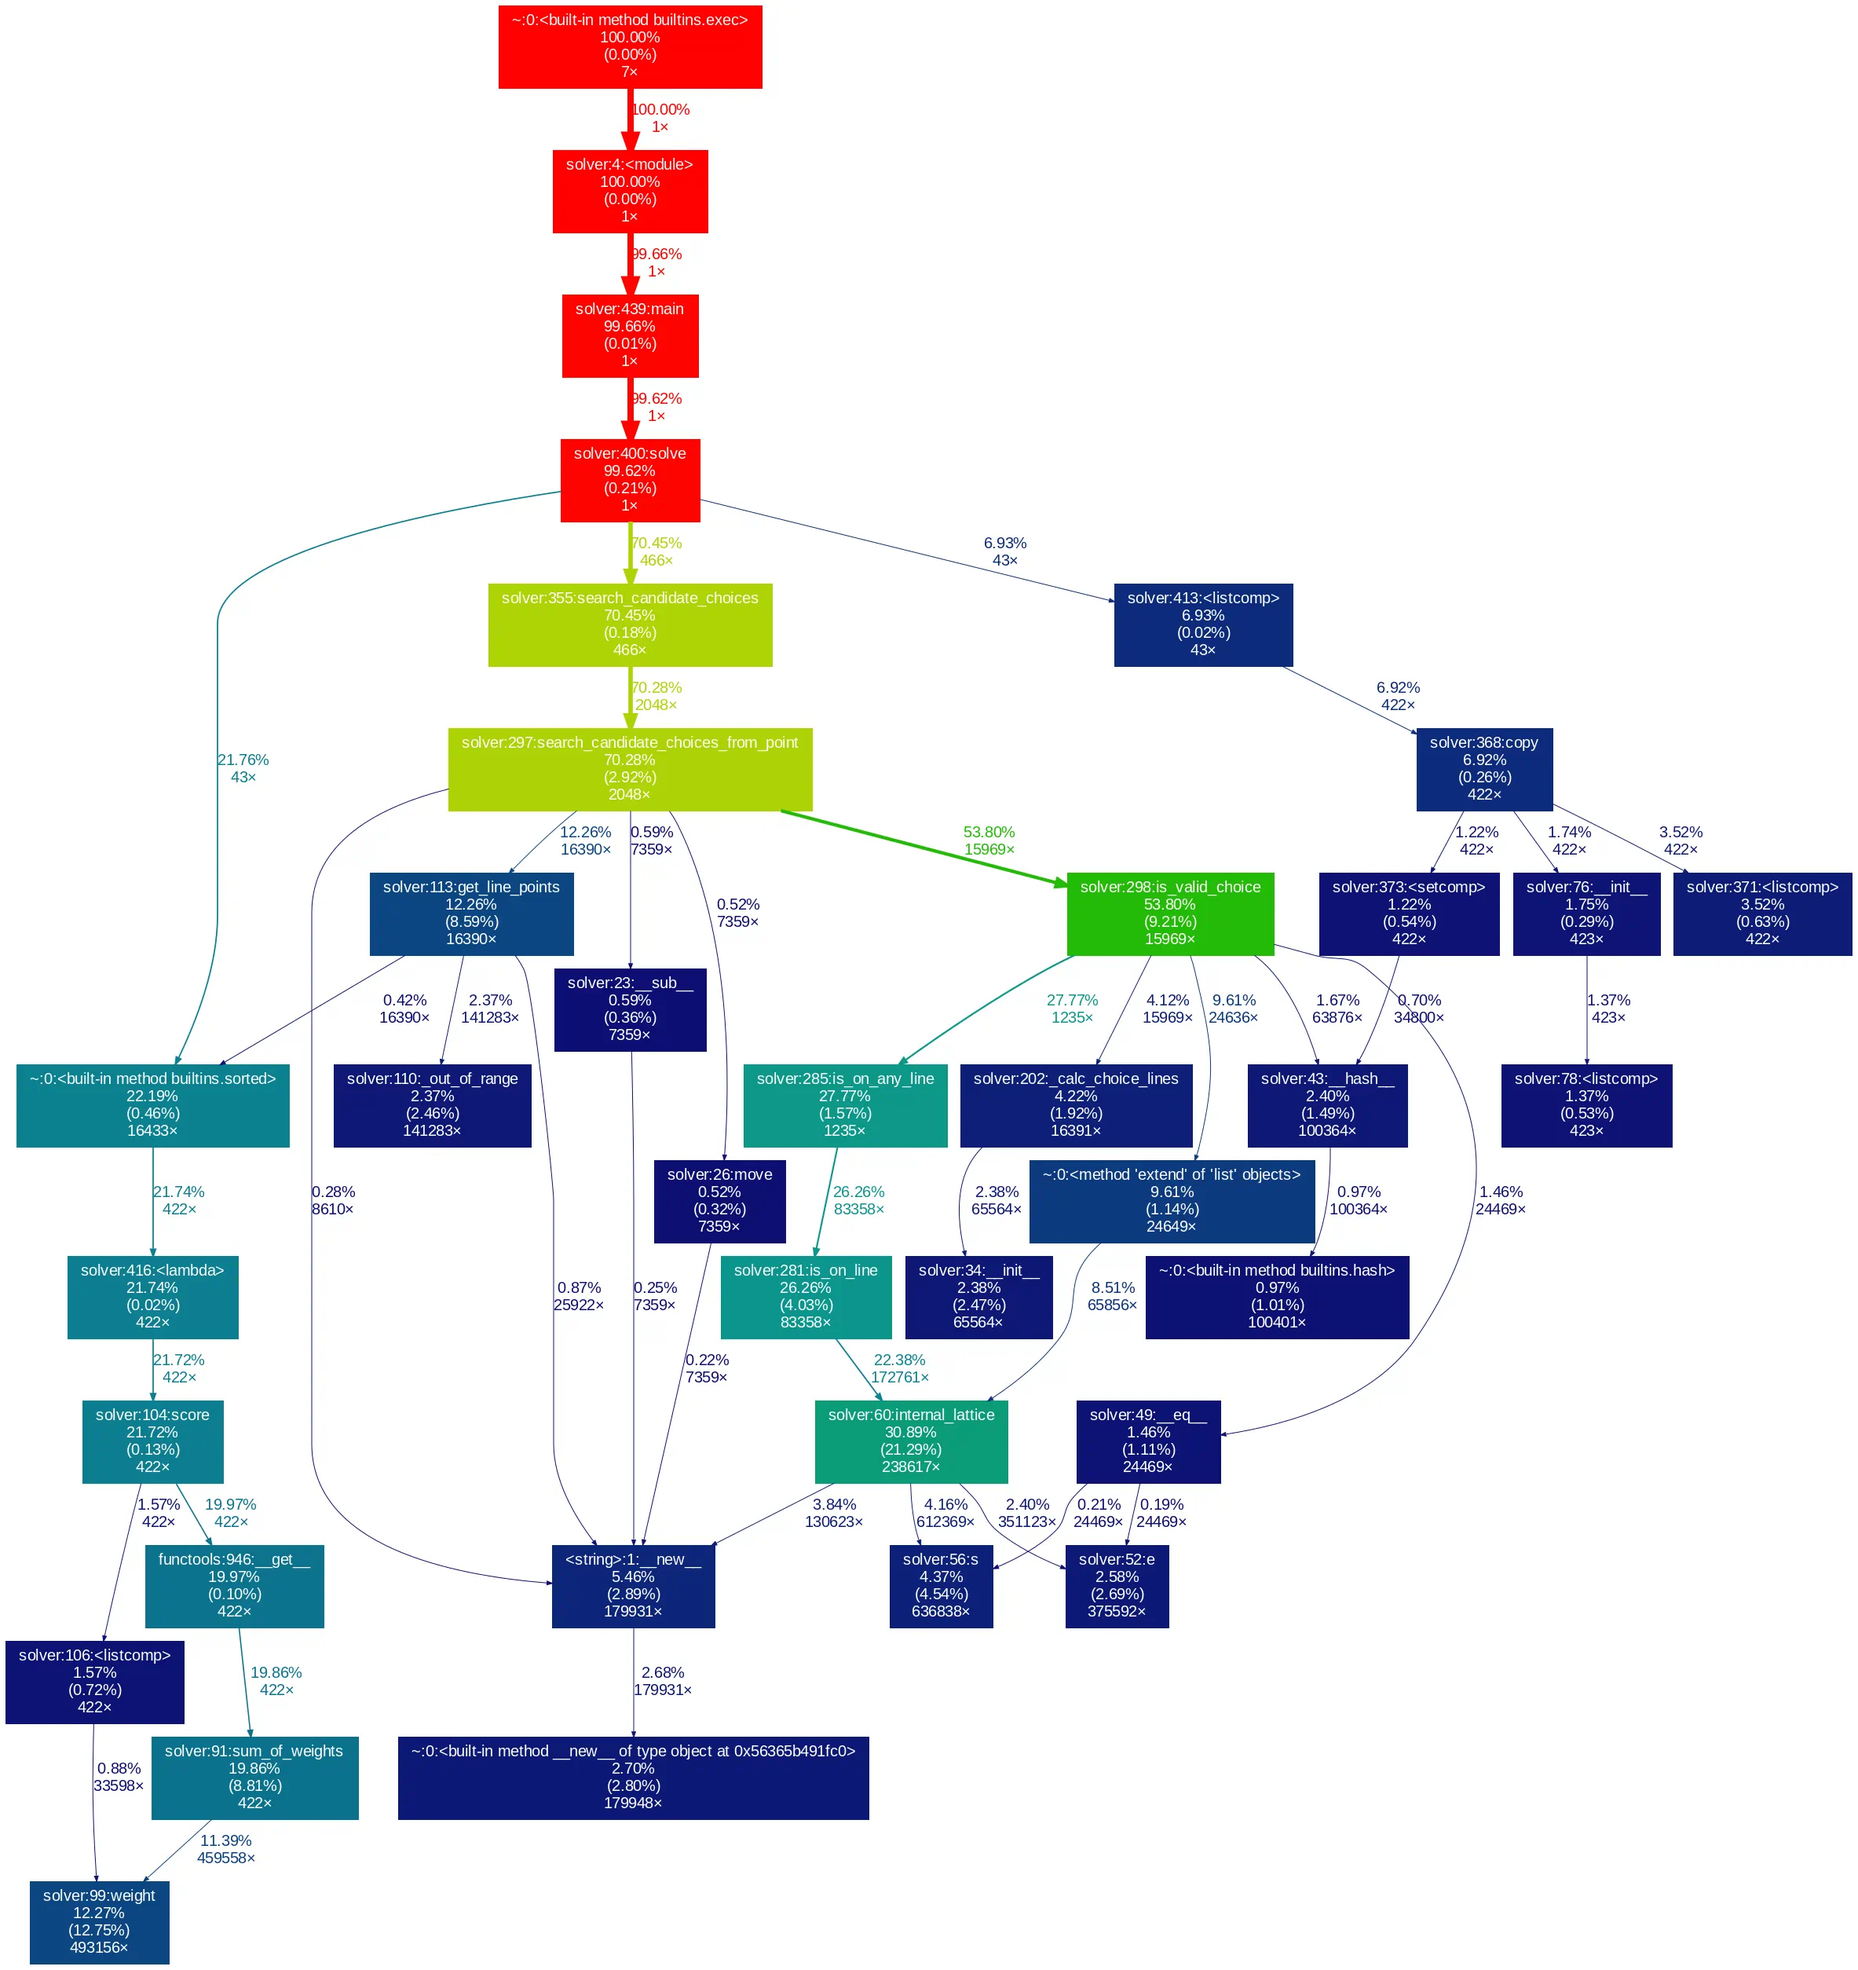
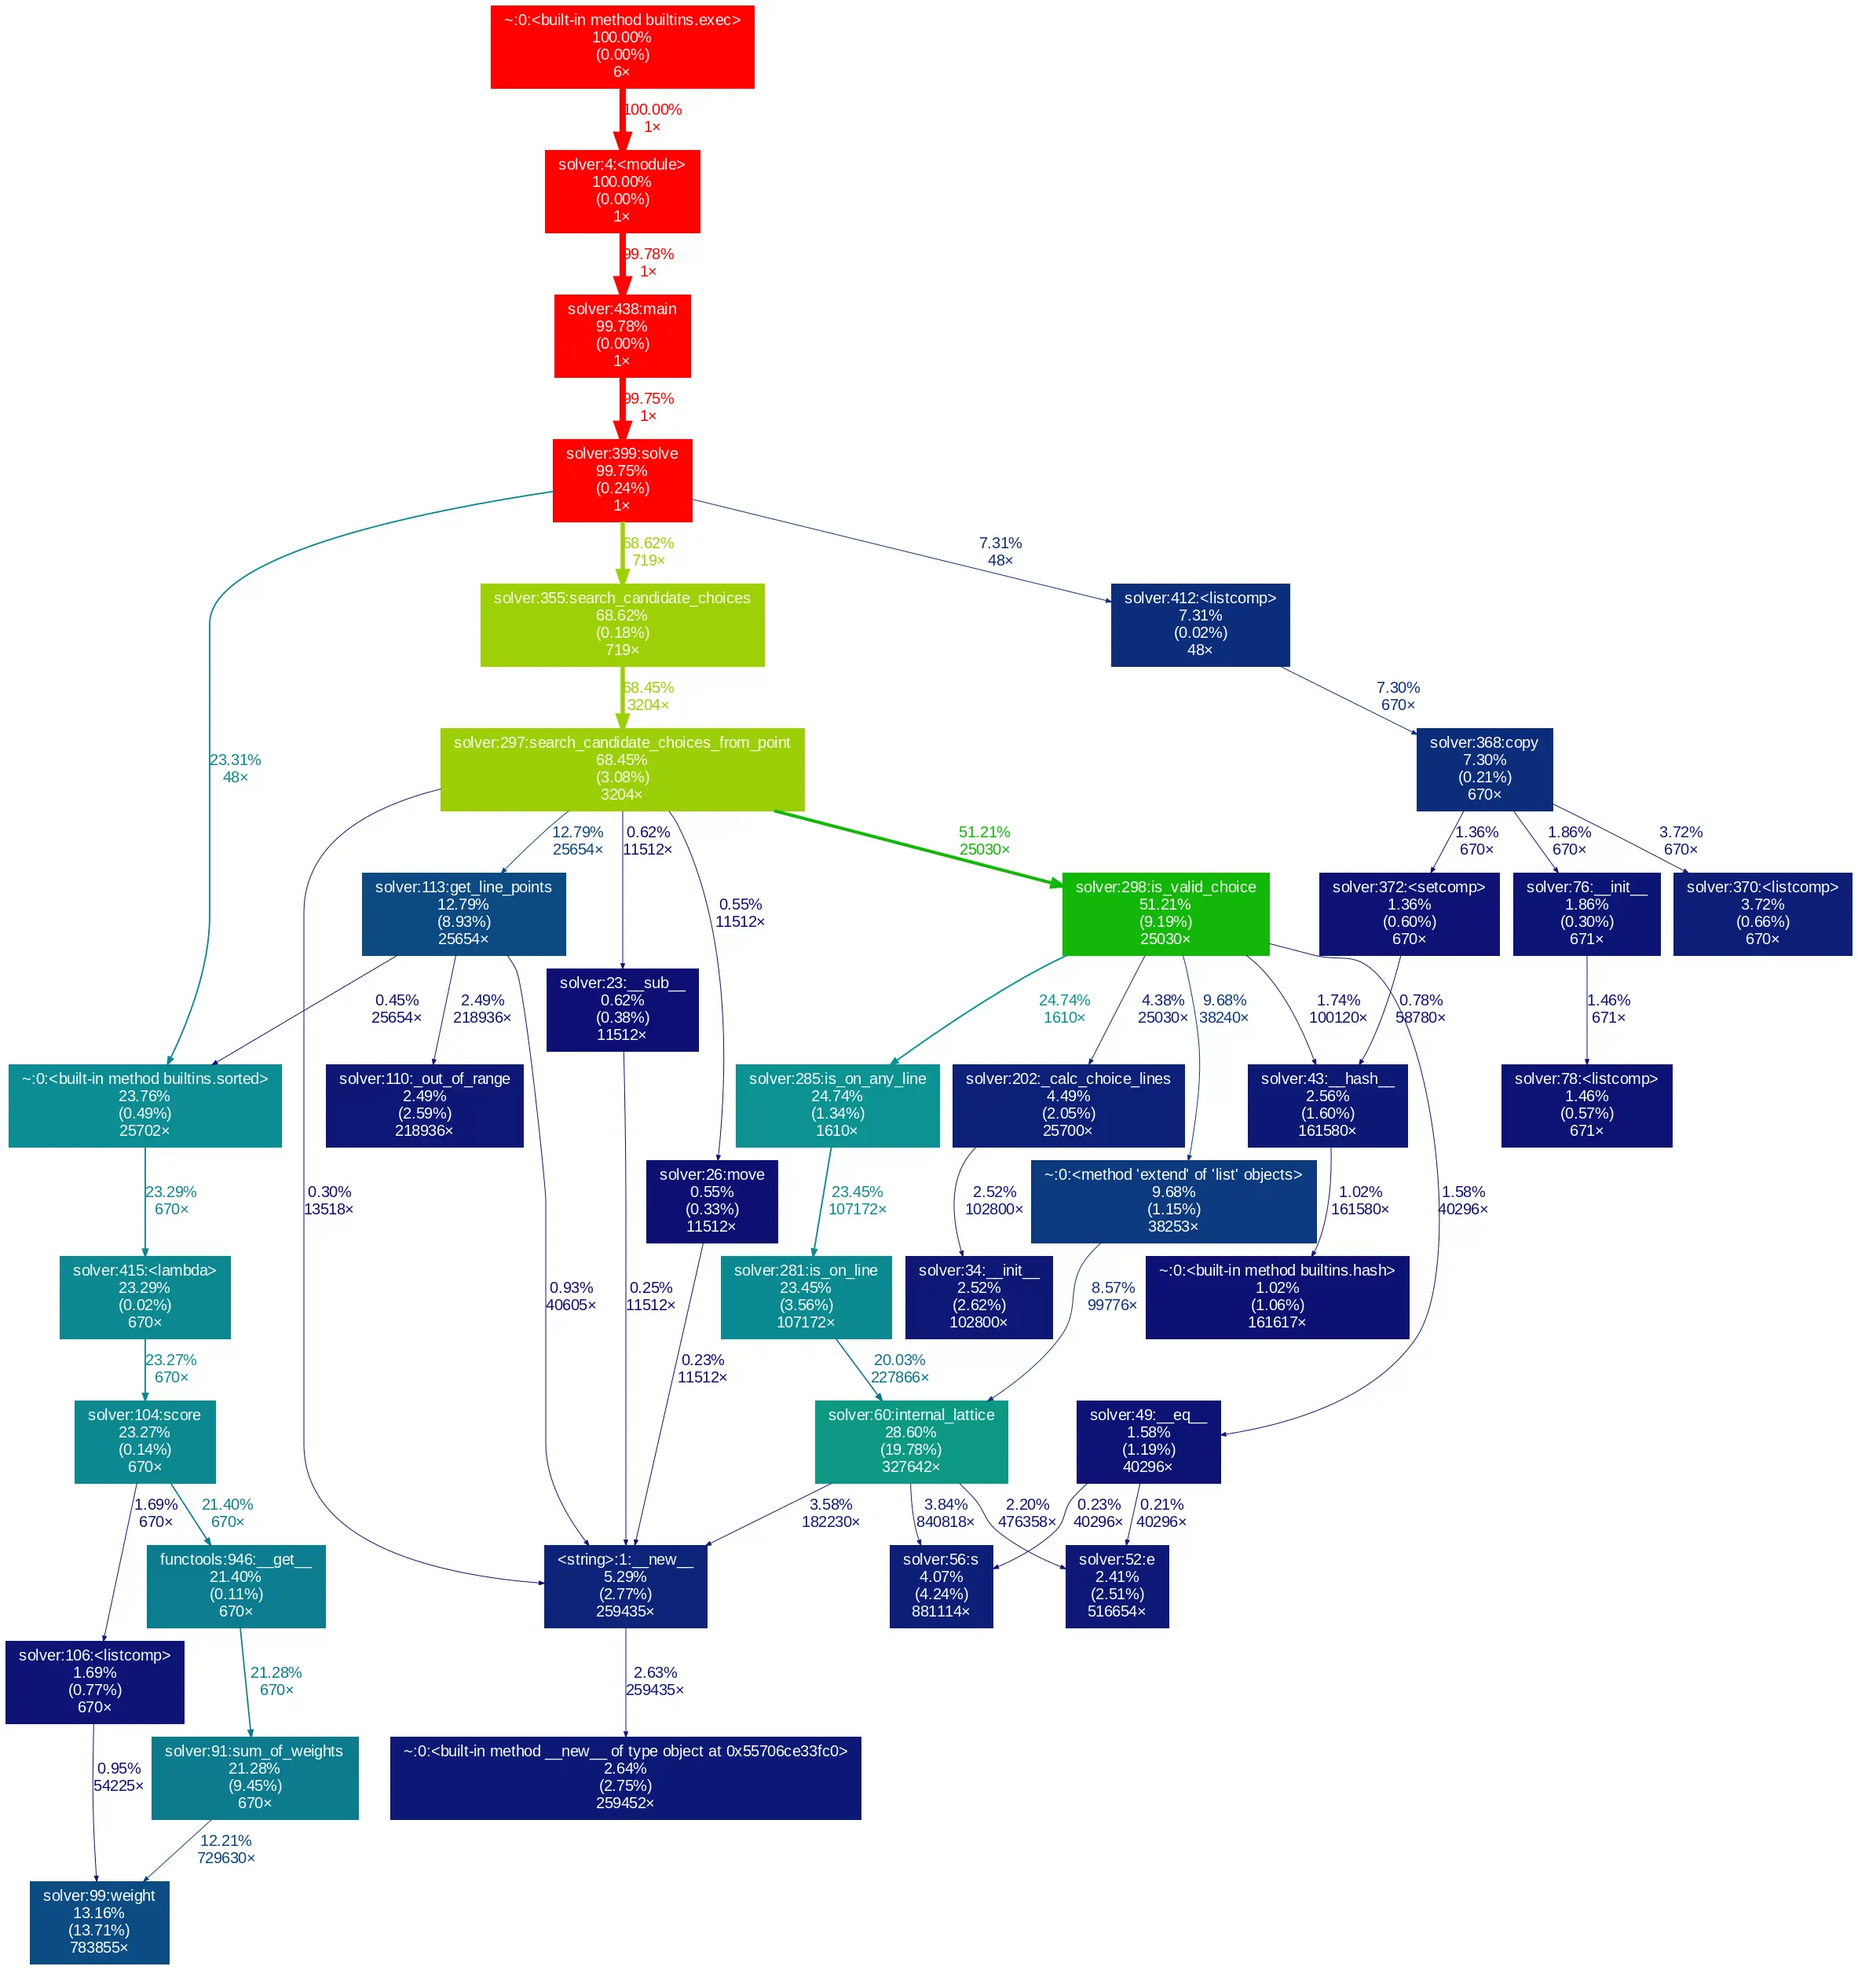
optimize? number of choice 10 -> 15

diff --git a/solver.py b/solver.py
@@ -402,7 +402,7 @@ def solve(board: Board) -> Board:
     from itertools import islice
     # board.choose((9, 15), [(12, 12), (15, 15), (12, 18)])
     while True:
-        num_of_can = 10
+        num_of_can = 15
         candidates = list(islice(board.search_candidate_choices(), num_of_can))
         num_of_can = len(candidates)
         if time() - start_time > 4.5:
